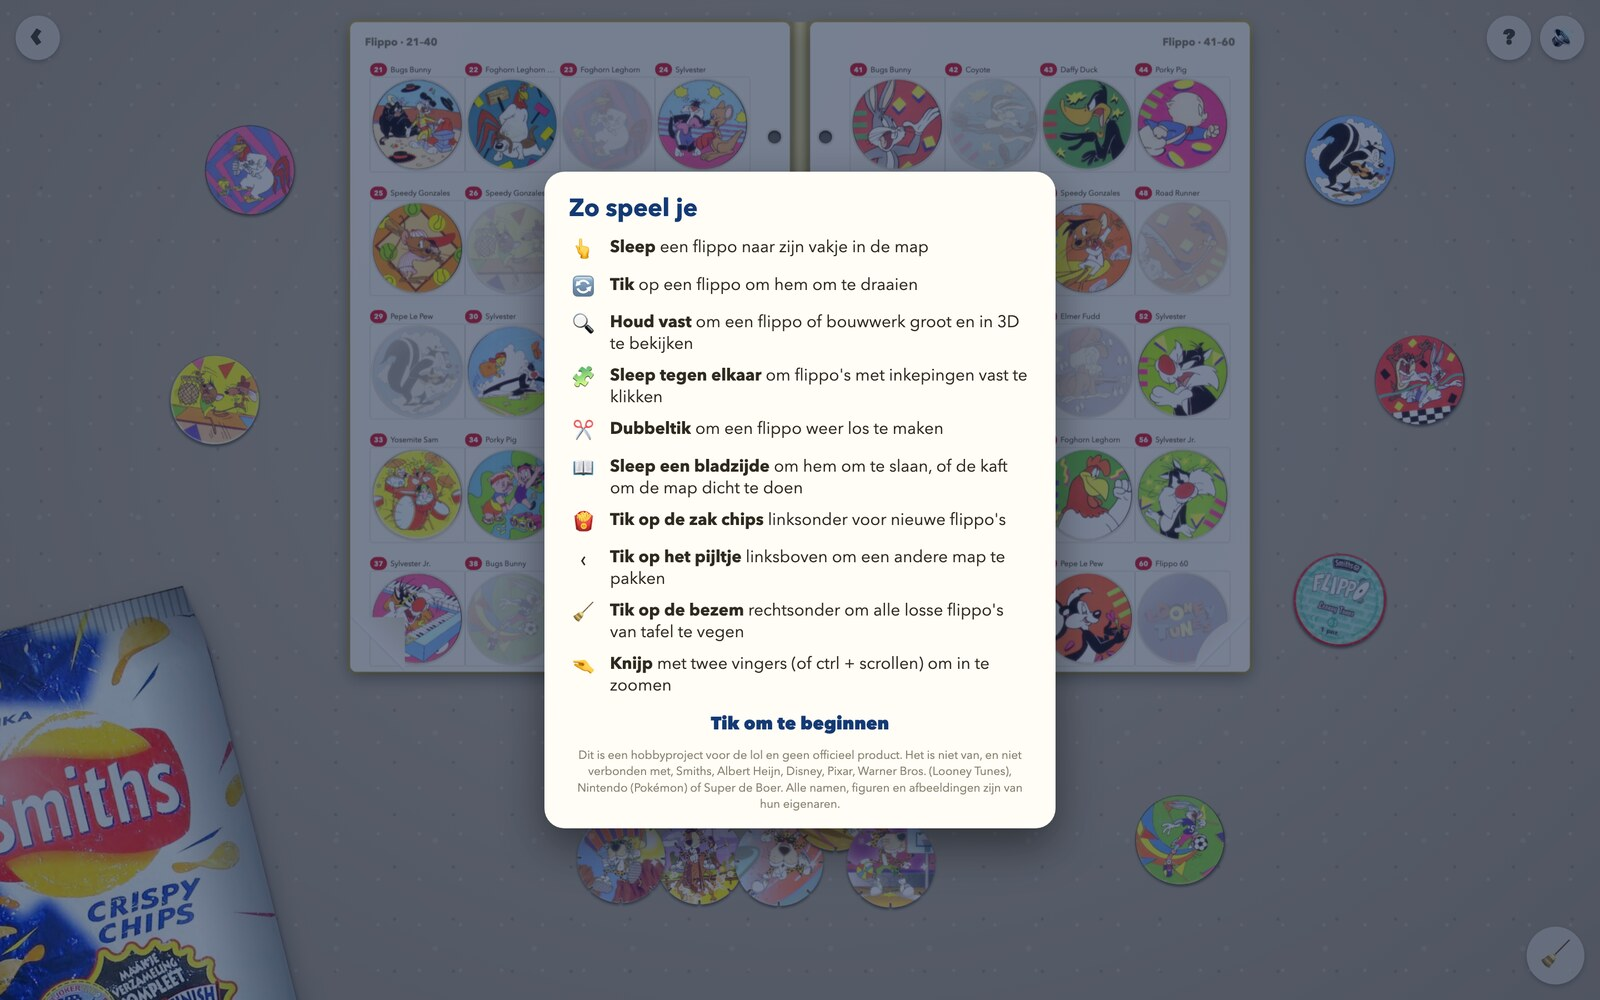
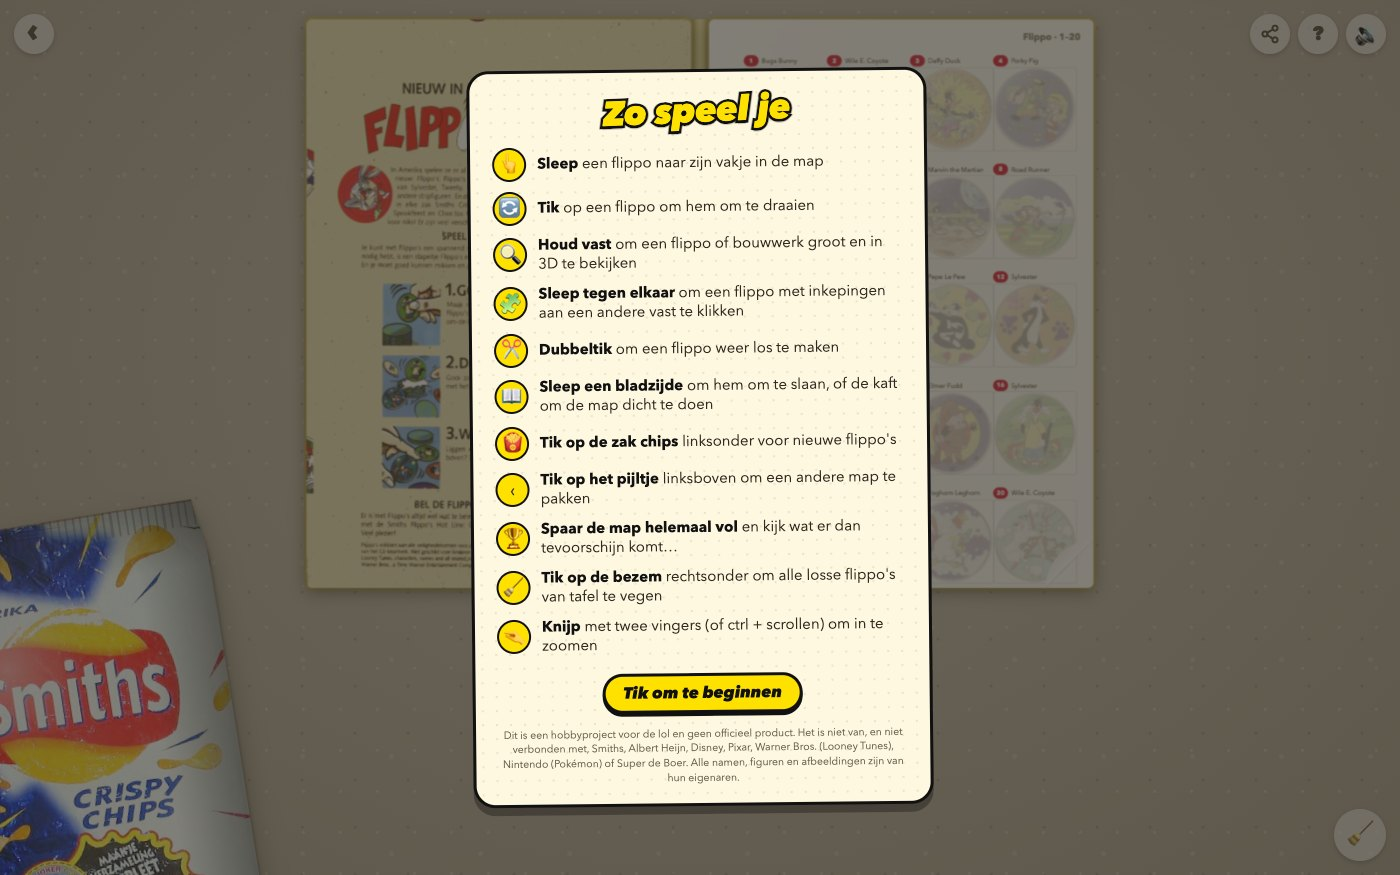
README bijgewerkt: gouden flippo, delen, telefoonweergave en nieuwe screenshots

diff --git a/README.md b/README.md
@@ -3,9 +3,9 @@
 
 # Flippo's
 
-> Gemaakt voor mijn neefjes, met foto's van eigen map en flippo's. Dit is geen officieel product: Diskeyz is een spaaractie van Albert Heijn met figuren van Disney en Pixar, de flippo's zijn van Smiths met figuren van Warner Bros. De Pokémon-munten zijn van Nintendo; de plaatjes daarvan komen van [LastDodo](https://www.lastdodo.nl/nl/areas/1407079-pokemon-munten). De plaatjes van de Smiths-flippo's komen van [milkcapmania.co.uk](https://www.milkcapmania.co.uk/Flippos/).
+> Gemaakt voor mijn neefjes, met foto's van eigen map en flippo's. Dit is geen officieel product: Diskeyz is een spaaractie van Albert Heijn met figuren van Disney en Pixar, de flippo's zijn van Smiths met figuren van Warner Bros. De Pokémon-munten zijn van Nintendo; de plaatjes daarvan komen van [LastDodo](https://www.lastdodo.nl/nl/areas/1407079-pokemon-munten). De plaatjes van de Smiths-flippo's komen van [milkcapmania.co.uk](https://www.milkcapmania.co.uk/Flippos/), die van de gouden flippo van [flippos.info](https://flippos.info/).
 
-Een speeltafel vol flippo's in je browser. Pak een map, maak zakjes open, verzamel ze allemaal en klik ze in elkaar tot een bouwwerk.
+Een speeltafel vol flippo's in je browser. Pak een map, maak zakjes open, verzamel ze allemaal en klik ze in elkaar tot een bouwwerk. En wie een flippo-map helemaal vol spaart, wint de gouden flippo.
 
 **Spelen: [flippos.bramdehart.nl](https://flippos.bramdehart.nl)** · Broncode: [github.com/bramdehart/flippos](https://github.com/bramdehart/flippos)
 
@@ -15,22 +15,24 @@ https://github.com/user-attachments/assets/7c88f2ad-2a1d-4293-9709-76ffd41c8971
 
 ## Vier mappen
 
-Je begint bij de tafel met vier mappen, die half over elkaar liggen. Schuif erdoorheen door te vegen, te scrollen of met de pijltjestoetsen; de map in het midden ligt bovenop. Tik hem aan en hij vliegt naar zijn plek op tafel en slaat open, waarna je losse flippo's stuiterend op tafel vallen. Elke map bewaart zijn eigen verzameling.
+Je begint bij de tafel met vier mappen, die half over elkaar liggen. Schuif erdoorheen door te vegen, te scrollen of met de pijltjestoetsen; de map in het midden ligt bovenop. Tik hem aan en hij vliegt naar zijn plek op tafel en slaat open, waarna je losse flippo's stuiterend op tafel vallen. Elke map bewaart zijn eigen verzameling. Rond de mappen liggen losse flippo's en munten, die een klein stukje uitwijken voor je muis en glimmen zoals in hun eigen map.
 
 - **Flippo's map 1 (1995)** – de originele flippo's uit de zakken Smiths-chips, nummer 1 tot en met 250.
 - **Flippo's map 2 (1996)** – het vervolg, nummer 251 tot en met 545.
 - **Pokémon munten (2001)** – de 48 metalen munten van serie 1, uit de muntenmap van Konmar en Super de Boer.
 - **AH Diskeyz (2026)** – de 30 Diskeyz van Albert Heijn.
 
-## Geen knoppen
+## Bijna geen knoppen
 
-Alles doe je met wat er op tafel ligt. Linksonder ligt de zak waar nieuwe flippo's uit komen, rechtsonder een bezem om de tafel leeg te vegen, en linksboven een pijltje terug naar de mappen. De eerste keer krijg je een korte uitleg; het vraagteken rechtsboven laat hem opnieuw zien.
+Alles doe je met wat er op tafel ligt. Linksonder ligt de zak waar nieuwe flippo's uit komen, rechtsonder een bezem om de tafel leeg te vegen, en linksboven een pijltje terug naar de mappen. Rechtsboven zitten drie kleine knopjes: delen, een vraagteken en geluid aan of uit. De eerste keer krijg je een korte uitleg; het vraagteken laat hem opnieuw zien. Bij de mappen vertelt het vraagteken wat deze site is, en van wie alle figuren zijn.
+
+Met de deelknop stuur je de site door via WhatsApp, Facebook, Snapchat, LinkedIn of X, of kopieer je de link. Op een telefoon kun je ook het deelmenu van je toestel openen.
 
 ![De uitleg die je de eerste keer ziet](docs/uitleg.jpg)
 
 ## De originele flippo's
 
-De flippo-mappen zijn ringbanden met insteekbladen: twintig vakjes per blad, met achter elk vakje alvast het plaatje dat erin hoort. Laat je een flippo los boven zijn vakje, dan schuift hij van boven in het hoesje. Stop je hem er met de achterkant boven in, dan blijft hij zo zitten tot je erop tikt.
+De flippo-mappen zijn ringbanden met insteekbladen: twintig vakjes per blad, met achter elk vakje alvast het plaatje dat erin hoort. Laat je een flippo los boven zijn vakje, dan schuift hij van boven in het hoesje. Stop je hem er met de achterkant boven in, dan blijft hij zo zitten tot je erop tikt. Op de achterkant staan het nummer en de naam van die flippo, in de stijl van zijn serie.
 
 ![Een opengeslagen flippo-map met insteekbladen](docs/flippomap.jpg)
 
@@ -48,9 +50,15 @@ Je begint met een lege map. Linksonder ligt een zak chips: tik erop en hij schui
 
 ### Bouwen
 
-Sommige flippo's hebben inkepingen in de rand: de Techno-, Strip- en Flying-flippo's. Sleep er twee tegen elkaar en ze klikken vast. Houd het bouwwerk vast om het in 3D te bekijken.
+Sommige flippo's hebben inkepingen in de rand: de Techno-, Strip- en Flying-flippo's. Sleep er een tegen een andere flippo en ze klikken vast; die andere hoeft zelf geen inkepingen te hebben. Alleen twee gladde flippo's passen niet aan elkaar. Houd het bouwwerk vast om het in 3D te bekijken.
 
 ![Een bouwwerk van Flying-flippo's in 3D](docs/flippo3d.jpg)
+
+### De gouden flippo
+
+Op de zak chips staat het al: er valt iets te winnen. Spaar een flippo-map helemaal vol en de gouden flippo knalt in beeld, met stralen, sterretjes en een fanfare. Daarna ligt hij los op tafel. Je kunt hem verslepen, omdraaien en van dichtbij in 3D bekijken, maar hij heeft geen vakje in de map en de bezem veegt hem niet weg. Haal je een flippo uit de map, dan is hij weer verdwenen tot de map opnieuw vol is. Bij de mappen ligt hij stralend voor een volle map.
+
+![De gouden flippo is gewonnen](docs/goud.jpg)
 
 ## Diskeyz
 
@@ -68,11 +76,11 @@ Ook hier begin je met een lege map. Diskeyz komen uit een zakje dat je aan de bo
 
 ## Pokémon-munten
 
-Een kleinere, rode map met twaalf munten per bladzijde. De munten zijn een slag groter dan flippo's en hebben een bolle glans. Ze komen uit het Super de Boer-zakje, drie per keer, en vallen geregeld op hun kop.
+Een kleinere, rode map met twaalf munten per bladzijde. De munten zijn een slag groter dan flippo's en hebben een bolle glans. Ze komen uit het Super de Boer-zakje, dat je net als het zakje Diskeyz openscheurt, drie per keer, en ze vallen geregeld op hun kop.
 
 ![De Pokémon-muntenmap met munten op tafel](docs/pokemon.jpg)
 
-De achterkant is van zilver en glimt flink. Houd een munt vast om hem groot te bekijken en rond te draaien.
+De achterkant is van zilver en glimt flink. Houd een munt vast om hem groot te bekijken en rond te draaien. Met een snelle veeg laat je hem spinnen; dat werkt bij elke flippo en Diskey.
 
 ![De zilveren achterkant van een Pokémon-munt](docs/munt.jpg)
 
@@ -84,13 +92,13 @@ Sleep op de eerste bladzijde het linkerblad naar rechts en de kaft slaat dicht, 
 
 ## Ook op je telefoon
 
-Op een telefoon zie je één bladzijde tegelijk, zodat alles groot genoeg blijft voor je vingers. Mikken hoeft niet: laat een flippo ergens op de map los en hij schuift in zijn eigen vakje. Met twee vingers zoom je in op de tafel. Via het deelmenu van je browser zet je de site als app op je beginscherm.
+Ook op een telefoon ligt de map open met twee bladzijden, met de rug in het midden. Hij is dan breder dan je scherm: sleep hem opzij om een hele bladzijde te zien, en sleep verder om om te slaan. Pak je een flippo vast, dan schuift zijn bladzijde vanzelf in beeld. Mikken hoeft niet: laat een flippo ergens op de map los en hij schuift in zijn eigen vakje. Met twee vingers zoom je in op de tafel. Via het deelmenu van je browser zet je de site als app op je beginscherm.
 
-<img src="docs/mobiel.jpg" alt="Een flippo-map op een telefoon, met één bladzijde in beeld" width="300">
+<img src="docs/mobiel.jpg" alt="Een flippo-map op een telefoon: twee bladzijden met de rug in het midden" width="300">
 
 ## De reclame
 
-Er is ook een reclamespot van 80 seconden in de stijl van een speelgoedreclame uit de jaren negentig, helemaal in JavaScript: [flippos.bramdehart.nl/commercial](https://flippos.bramdehart.nl/commercial/). Zet je geluid aan. Hij staat ook als video in de repo: [flippos-reclame.mp4](commercial/flippos-reclame.mp4).
+Er is ook een reclamespot van 80 seconden in de stijl van een speelgoedreclame uit de jaren negentig, helemaal in JavaScript: [flippos.bramdehart.nl/commercial](https://flippos.bramdehart.nl/commercial/). Zet je geluid aan. In zestien korte scènes komt alles voorbij, van de zak chips tot de gouden flippo. Hij staat ook als video in de repo: [flippos-reclame.mp4](commercial/flippos-reclame.mp4). De stem is gemaakt met een spraakmodel; met `node commercial/stem.mjs` maak je hem opnieuw.
 
 ## Alles wat je kunt doen
 
@@ -99,16 +107,21 @@ Er is ook een reclamespot van 80 seconden in de stijl van een speelgoedreclame u
 | Een flippo slepen | Verplaatsen, of in zijn vakje stoppen |
 | Op een flippo tikken | Omdraaien |
 | Een flippo vasthouden | Groot en in 3D bekijken; bij een bouwwerk het hele bouwwerk |
-| Twee flippo's met gleufjes tegen elkaar slepen | Ze klikken vast |
+| In de grote weergave snel vegen | De flippo of munt spint rond |
+| Een flippo met inkepingen tegen een andere slepen | Ze klikken vast |
 | Dubbeltikken op een flippo | Losmaken uit een bouwwerk |
 | Scrollen boven een flippo | Flippo of bouwwerk draaien |
 | Een bladzijde opzij slepen, of op het hoekje tikken | Bladzijde omslaan |
+| Op een telefoon de map opzij slepen | De andere bladzijde in beeld; verder slepen slaat om |
 | De kaft opzij slepen | Map dichtslaan, openslaan of omdraaien |
 | Tikken op het zakje of de zak chips | Nieuwe flippo's openmaken; ernaast tikken legt hem terug |
 | Tikken op het pijltje linksboven | Terug naar het overzicht met de mappen |
 | Twee keer tikken op de bezem | Alle losse flippo's van tafel vegen; de map blijft |
+| Een flippo-map helemaal vol sparen | Je wint de gouden flippo |
+| Tikken op de deelknop rechtsboven | De site doorsturen of de link kopiëren |
+| Tikken op het luidsprekertje | Geluid aan of uit, voor alle mappen |
 | Knijpen, of ctrl + scrollen | In- en uitzoomen |
 | Pijltjestoetsen | Bladeren, of door de mappen schuiven |
-| Escape | Uitleg, zak of grote weergave sluiten |
+| Escape | Uitleg, deelkaartje, zak of grote weergave sluiten |
 
 Je spel wordt vanzelf bewaard in je browser.
